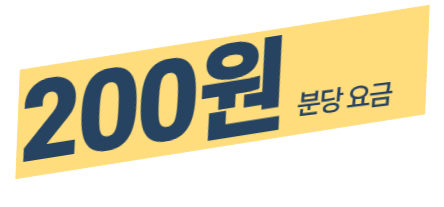
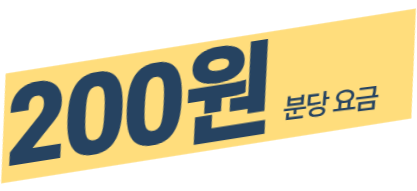
2022.08.19.

diff --git a/css/promotion.css b/css/promotion.css
@@ -44,36 +44,24 @@
     right: 0;
 }
 
-#header .inner .pr2_bg {
-    height: 100%;
-    display: block;
-    position: absolute;
-
-    top: 50%;
-    left: 50%;
-    transform: translate(-50%, -50%);
-}
-
 #header .inner iframe {
-    width:43%;
-    height:430px;
+    width:43vw;
+    height:47vh;
     background:#000000;
-    margin-top: 100px;
-    margin-bottom: 100px;
     position: absolute;
 
     top: 50%;
     left: 50%;
-    transform: translate(-50%, -43%);
+    transform: translate(-50%, -23%);
 
-    border-radius: 40px;
+    border-radius: 25px;
 }
 
 #header .inner .pr2_200 {
     display: block;
     position: absolute;
 
-    bottom: 3%;
+    bottom: 4%;
     right: 27%;
 }
 
@@ -88,13 +76,19 @@
 
     #header .inner .primg {
         width: 100%;
-        height: 100%;
     }
 
     #header .inner iframe {
-        height: 53.33vw;
-        margin-top: 8vw;
-        margin-bottom: 8vw;
+        width: 85vw;
+        height: 30vh;
+    }
+
+    #header .inner .pr2_200 {
+    width: 40vw;
+    display: flex;
+
+    bottom: 5%;
+    right: 3%;
     }
 }
 
@@ -108,13 +102,19 @@
 
     #header .inner .primg {
         width: 100%;
-        height: 100%;
     }
 
     #header .inner iframe {
-        height: 53.33vw;
-        margin-top: 8vw;
-        margin-bottom: 8vw;
+        width: 85vw;
+        height: 30vh;
+    }
+
+    #header .inner .pr2_200 {
+    width: 40vw;
+    display: flex;
+
+    bottom: 5%;
+    right: 3%;
     }
 }
 /* 반응형 */

diff --git a/promotion/15mtourzy.html b/promotion/15mtourzy.html
@@ -63,7 +63,7 @@
                 </div>
 
                 <div class="content">
-                    <img class="pr2_bg" src="../images/pr_15m_002_bg.jpg" alt="" />
+                    <img class="primg" src="../images/pr_15m_002_bg.jpg" alt="" />
                     <iframe src="https://www.youtube.com/embed/s75ntMjakGQ?controls=0&autoplay=1&mute=1&loop=1" title="YouTube video player" frameborder="0" allow="accelerometer; autoplay; clipboard-write; encrypted-media; gyroscope; picture-in-picture" allowfullscreen>
                     </iframe>
                     <img class="pr2_200" src="../images/pr_15m_002_200.png" alt="" />
